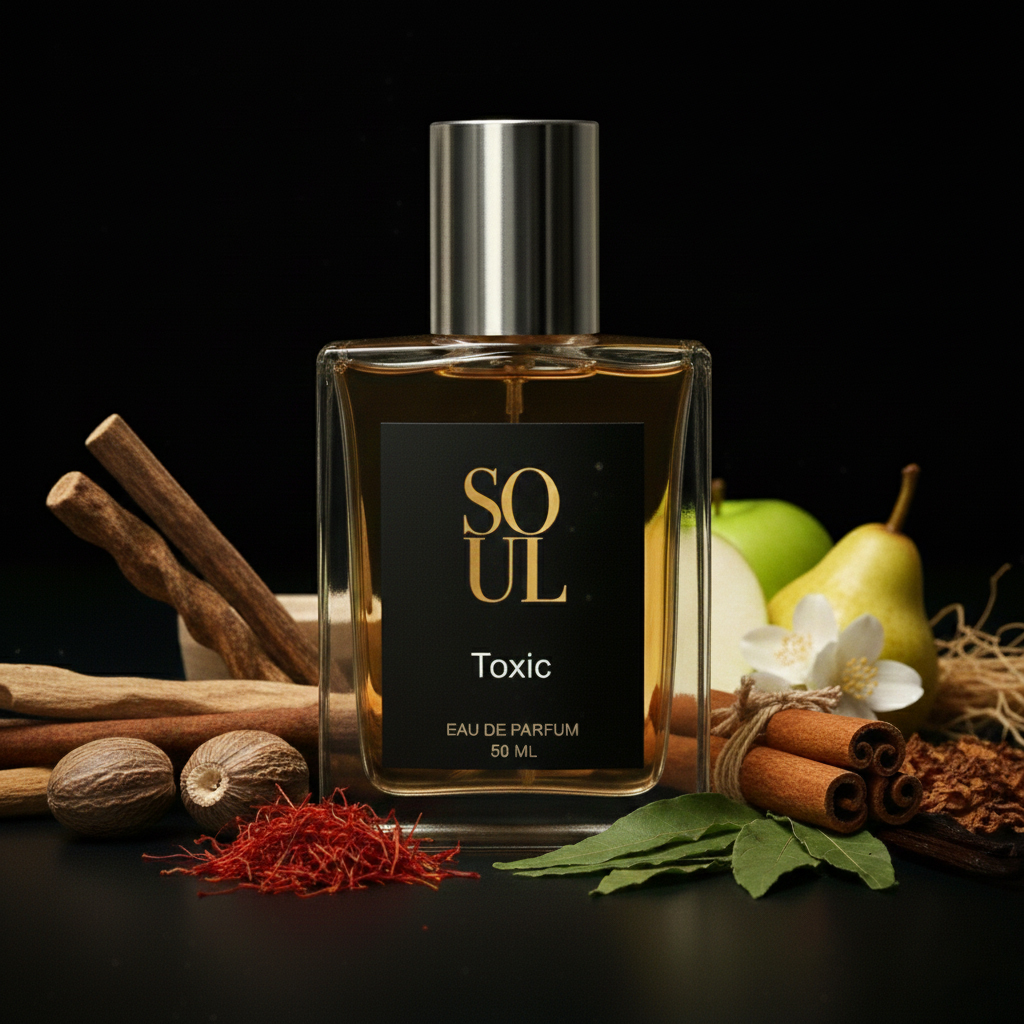
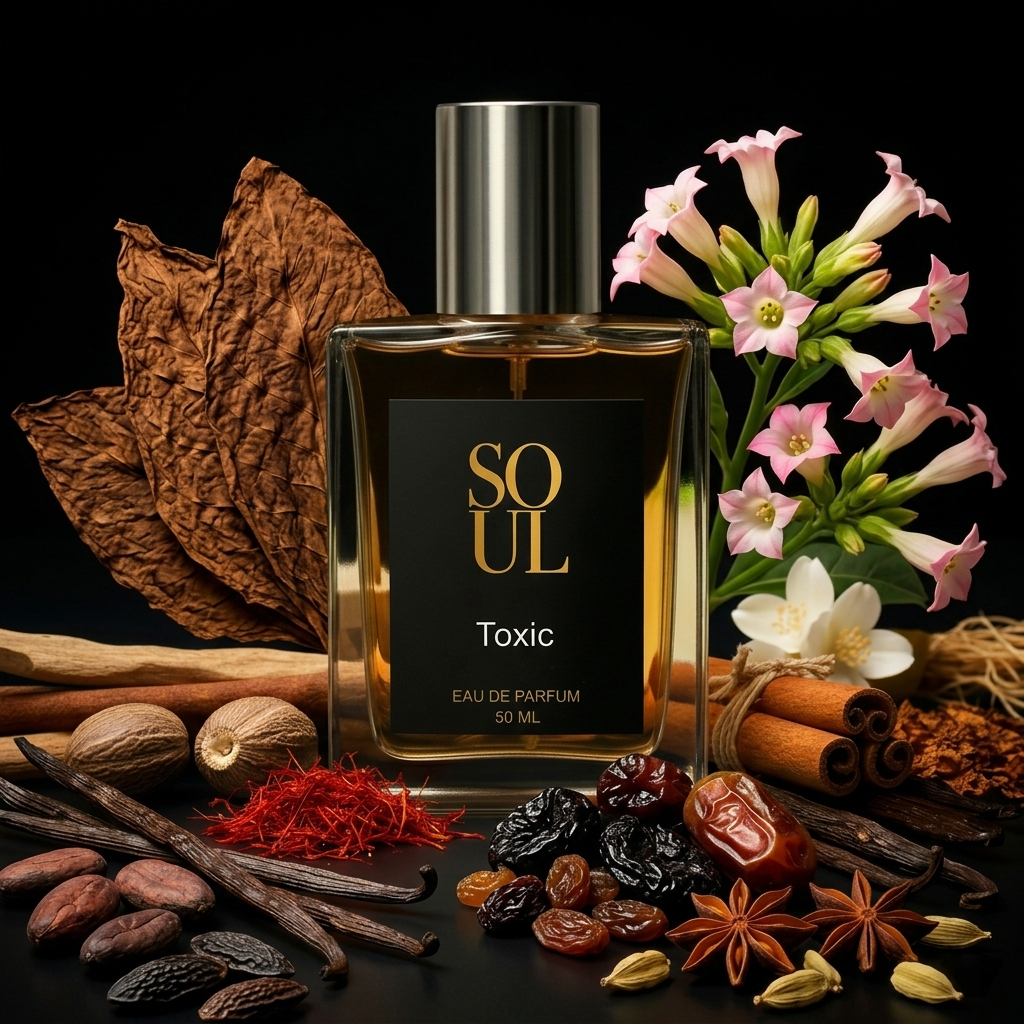
Added Toxic, Dusk, and Fireplace to perfume lineup

diff --git a/src/data.js b/src/data.js
@@ -4,7 +4,7 @@ export const products = [
   // --- FOR HER (1-4) ---
   { 
     id: 1, name: "Blossom", category: "for-her", price: 599, image: "/images/blossom.jpg",
-    inStock: true, // <--- NEW FIELD
+    inStock: true,
     description: "A gorgeous gardenia-based floral scent that feels like a spring garden in full bloom. Cheerful, pear-sweetened, and beautifully feminine.",
     inspiration: "A floral masterpiece comparable to Gucci Flora.",
     notes: { top: "Pear, Red Berries", mid: "Gardenia, Frangipani", base: "Patchouli, Brown Sugar" },
@@ -77,7 +77,7 @@ export const products = [
     rating: 0, reviews: []
   },
 
-  // --- UNISEX (9-18) ---
+  // --- UNISEX (9-20) ---
   { 
     id: 9, name: "Oud Intense", category: "unisex", price: 599, image: "/images/oud-intense.jpg", isSignature: true,
     inStock: true,
@@ -134,11 +134,11 @@ export const products = [
   },
   { 
     id: 15, name: "Toxic", category: "unisex", price: 599, image: "/images/toxic.jpg",
-    inStock: false,
-    description: "Loud. Unapologetic. A firestorm of spices, tobacco, and oud. Not for the faint of heart, this is a statement maker.",
-    inspiration: "A beast-mode tobacco scent comparable to Mancera Red Tobacco.",
-    notes: { top: "Cinnamon, Agarwood, Saffron", mid: "Patchouli, Jasmine", base: "Tobacco, Vanilla, Sandalwood" },
-    specs: { gender: "Unisex (Leans Masculine)", weather: "Winter (Strictly)", time: "Night/Outdoor", longevity: "12+ Hours", projection: "1.5-2 Hours" },
+    inStock: true,
+    description: "Opulent. Warm. Iconic. A smooth, sweet blend of rich tobacco leaf and creamy vanilla that exudes pure wealth and confidence.",
+    inspiration: "Comparable to the iconic Tom Ford Tobacco Vanille.",
+    notes: { top: "Tobacco Leaf, Spices", mid: "Vanilla, Cacao, Tonka Bean", base: "Dried Fruits, Woody Notes" },
+    specs: { gender: "Unisex", weather: "Winter/Autumn", time: "Evening/Night", longevity: "9-11 Hours", projection: "1.5-2 Hours" },
     rating: 0, reviews: []
   },
   { 
@@ -166,6 +166,24 @@ export const products = [
     inspiration: "Captures the boozy elegance of Kilian Angels' Share.",
     notes: { top: "Cognac", mid: "Cinnamon, Tonka Bean, Oak", base: "Praline, Vanilla, Sandalwood" },
     specs: { gender: "Unisex", weather: "Winter", time: "Evening/Date", longevity: "8-9 Hours", projection: "1.5-2 Hours" },
+    rating: 0, reviews: []
+  },
+  { 
+    id: 19, name: "Dusk", category: "unisex", price: 599, image: "/images/dusk.jpg",
+    inStock: true,
+    description: "Vast, untethered, and driven. A tactile, highly sensual leather fragrance accented by white florals and warm amber.",
+    inspiration: "Inspired by the raw elegance of Tom Ford Ombre Leather.",
+    notes: { top: "Cardamom", mid: "Leather, Jasmine Sambac", base: "Amber, Moss, Patchouli" },
+    specs: { gender: "Unisex (Leans Masculine)", weather: "Autumn/Winter", time: "Evening/Night", longevity: "8-10 Hours", projection: "1.5-2 Hours" },
+    rating: 0, reviews: []
+  },
+  { 
+    id: 20, name: "Fireplace", category: "unisex", price: 599, image: "/images/fireplace.jpg",
+    inStock: true,
+    description: "Comforting and warm. The smoky, woodsy scent of a crackling fire combined with the sweet, cozy aroma of roasting chestnuts.",
+    inspiration: "Captures the cozy warmth of Maison Margiela Replica By the Fireplace.",
+    notes: { top: "Cloves, Pink Pepper, Orange Blossom", mid: "Chestnut, Guaiac Wood, Juniper", base: "Vanilla, Peru Balsam, Cashmeran" },
+    specs: { gender: "Unisex", weather: "Winter/Autumn", time: "Evening/Cozy", longevity: "7-9 Hours", projection: "1.5-2 Hours" },
     rating: 0, reviews: []
   }
 ];
